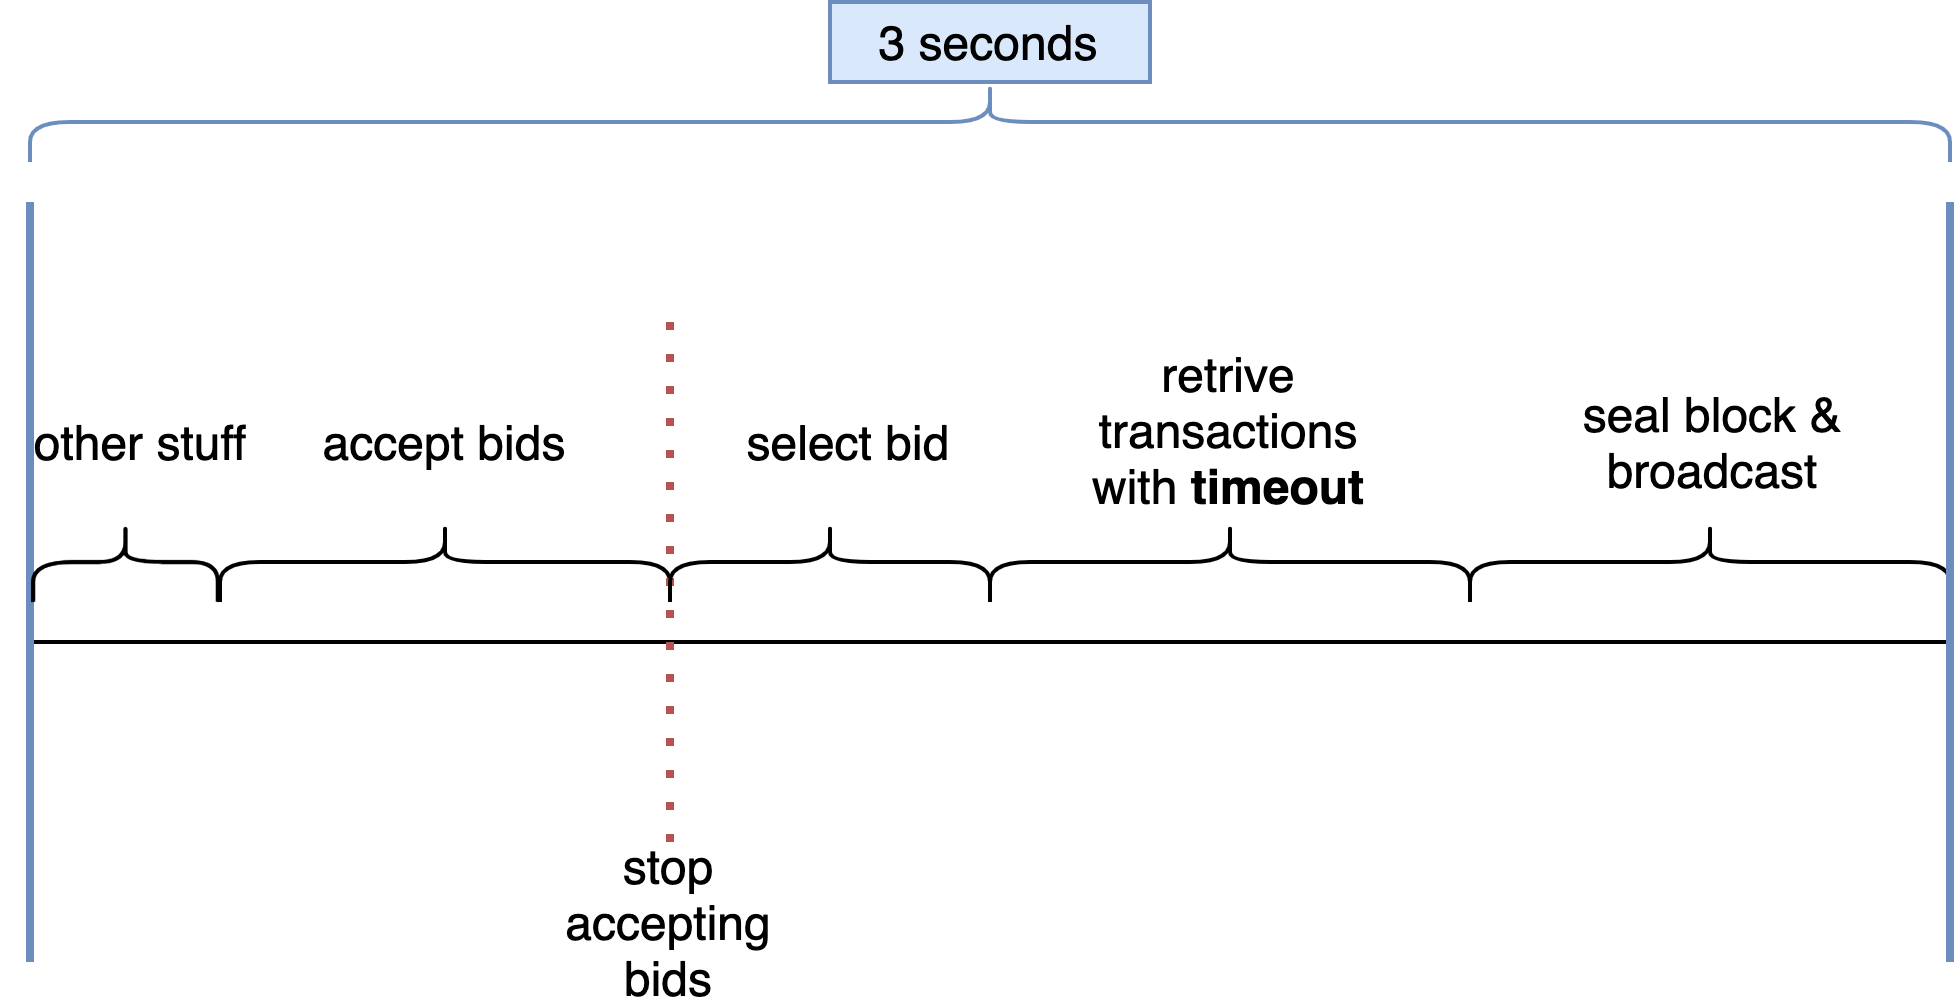
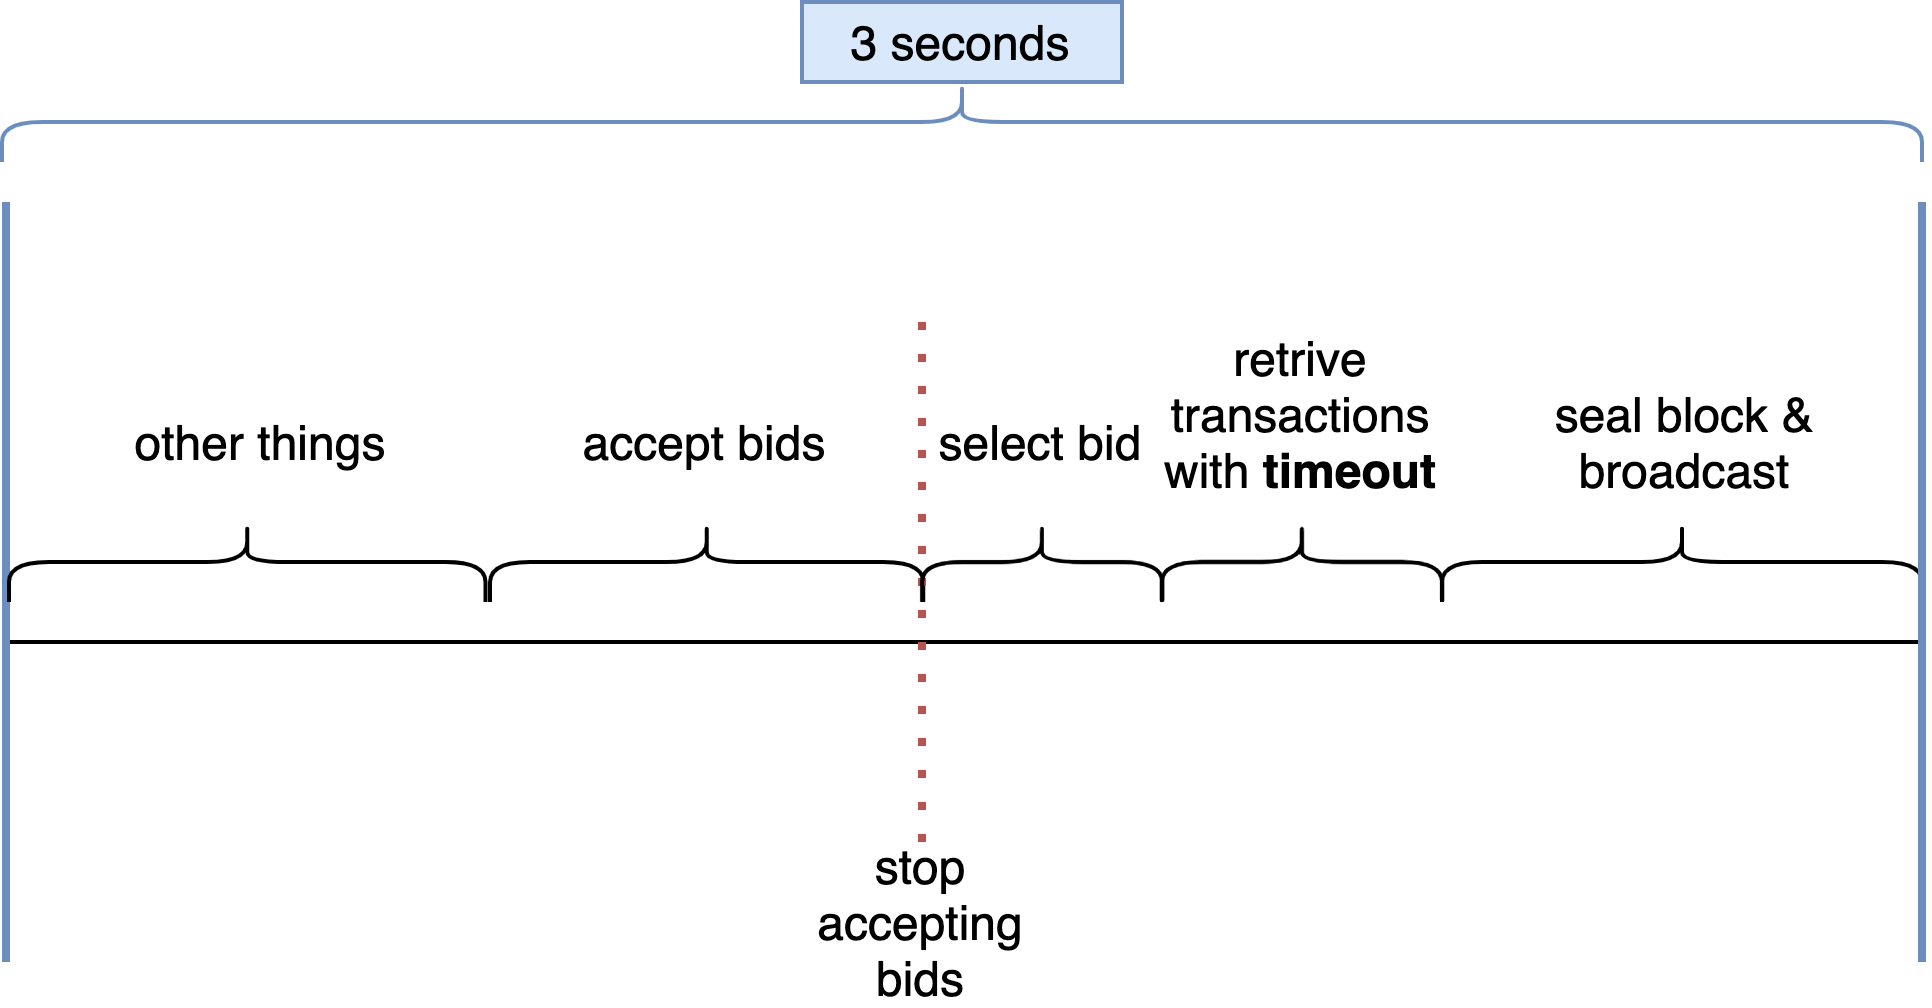
update content to add proxy

diff --git a/BEPs/BEP322.md b/BEPs/BEP322.md
@@ -35,7 +35,6 @@ The [Ethereum Builder API
 Specification](https://github.com/ethereum/builder-specs) has been supported by almost all the mainstream
 Ethereum consensus clients. Nowadays, the inclusion rate of blocks from builders
 is [about 90%](https://dune.com/ChainsightAnalytics/mev-after-ethereum-merge) (based on the statistics of October 2023).
-
 However, on BNB Smart Chain, there is no such specification yet. By
 introducing such a specification, it will resolve some problems as well
 as bring new benefits for the ecosystem.
@@ -94,8 +93,8 @@ A setup phase is needed before builders submit transactions to validators:
 
 To let builders know the smart contract address, a validator can put the information into BSC, i.e., adding the address
 into `Details` field when [creating/editing a validator](https://docs.bnbchain.org/docs/validator/create-val).
-Meanwhile, the registration interfaces are not included in this specification. However, [an example](#4-references)
-is presented to demonstrate this.
+Meanwhile, the registration APIs are not included in this specification.
+However, [an example](#4-references) is presented to demonstrate this.
 
 ![workflow](./assets/bep-322/workflow_setup.png)
 
@@ -117,18 +116,23 @@ After setup, during each block production interval, the overall workflow for pro
 7) the proposer will notify the builder if something is wrong (e.g., timeout to retrieve transitions from the builder,
    or the proposed block is invalid).
 
-8) the proposer will append a transaction to record builder fee to its builder smart contract. This step is optional.
-
-9) the proposer will seal a block using the transactions from the winning builder. If there is no profitable bid
-   compared to local or the transactions do not return in time, the proposer can still seal a block using local
-   transactions.
+8) the proposer will seal a block using the transactions from the winning builder.
+   If there is no profitable bid compared to local or the transactions do not return in time,
+   the proposer can still seal a block using local transactions.
 
 ![workflow](./assets/bep-322/workflow_2round.png)
 
+Meanwhile, a validator can run a proxy in front of it.
+The proxy will has its own wallet, which should be different from consensus wallet,
+and append a transfer transaction to send builder fee.
+The proxy can also filter bids and only forward the more profitable ones to a validator.
+
+![workflow](./assets/bep-322/workflow_2round_proxy.png)
+
 In BSC, the time for producing a block is only 3 seconds. To reduce the latency, the following option is also supported
 in this specification. For step 1, a builder can also submit a bid with transactions, then at step 4 a proposer
-does not need to ask for transactions and can send the receipt in an asynchronous way or
-even do not send it.
+does not need to ask for transactions, and can send the receipt in an asynchronous way or even do not send it.
+This option can also use a proxy for payment.
 
 ![workflow](./assets/bep-322/workflow_1round.png)
 
@@ -154,8 +158,8 @@ Builder Specification here for the readers who are familiar with it.
   transfer (for fee to validators). In BSC, the coinbase reward will
   be transferred to the system contract for later distribution to
   all delegators. A different way is proposed in this proposal; a
-  validator needs to append a transaction to record builder fee to
-  its builder smart contract. It will be further discussed in the later section.
+  validator can run a proxy to append transfer transaction for payment.
+  It will be further discussed in the later section.
 
 #### 3.2.2 Edge Cases
 
@@ -171,11 +175,9 @@ validators, there could be some special cases.
   the validator should 1) notify the builder using api calls, 2)
   refuse the builder's bids for a while or even forever.
 
-- If a builder finds that its transactions are stolen by the
-  validator, the builder 1) can still get its builder fee for it
-  already gets the validator's signature for payment, 2) refuses to
-  send bids to the validator, 3) discloses the steal to public
-  channels for social influences if necessary.
+- If a builder finds that its transactions are stolen by a
+  validator, the builder should 1) refuse to send bids to the validator, 2)
+  disclose the steal to public channels for social influences if necessary.
 
 #### 3.2.3 Implementation Considerations
 
@@ -189,9 +191,10 @@ Secondly, a validator can choose to run a node with or without support for build
 The implementation should support a validator to turn on/off the feature
 based on its choice.
 
-Thirdly, for a validator it needs to interact with many builders at the same time.
-To protect validators, a proxy layer could be implemented to hide validator’s real
-IP information, against DDoS, and others.
+Thirdly, as mentioned earlier, a proxy can be used for payment by appending transfer transactions.
+Meanwhile, for a validator it needs to interact with many builders at the same time.
+A proxy can also be implemented to protect validators, e.g., hiding validator’s real
+IP information, protecting against DDoS, and others.
 
 ![proxy_topology](./assets/bep-322/workflow_topology.png)
 
@@ -212,22 +215,14 @@ be considered.
 - Users can insert a transfer transaction into his/her bundles to pay
   the builder.
 
-For the payment between builders and validators, when a validator accepts
-a bid, it needs to append one accounting transaction to record the builder fee.
-To support this transaction, the following should be satisfied:
+For the payment between builders and validators:
 
-* the gas price of the transaction should be zero. Then a validator does not need to pay any gas for it.
+- A validator can run a proxy and append transfer transactions to pay builders.
+  If a validator does not append the transfer transaction, a builder can still
+  use the receipt (with validator’s signature) to ask for settlement using other approaches.
 
-* the smart contract call can only be made by coinbase address.
-
-* the transaction should be reverted if there is any reorg.
-
-After accounting, a builder can claim its income from the contract without any interaction with the validator.
-
-If a validator does not append the accounting transaction, a builder can still use the receipt (with validator’s
-signature)
-to ask for settlement using other approaches. If a validator does not pay a builder on purpose (i.e., misbehavior),
-then the builder can expose evidence about the misbehavior.
+- A validator and a builder can negotiate other off-chain on-chain approaches which are out of scope of the
+  specification.
 
 Furthermore, let's also discuss what will happen if a builder or a
 validator misbehaves.
@@ -280,8 +275,8 @@ for payment settlement.
 {
   "message": {
     "block": "height of the block",
-    "timestamp": "timestamp", 
-    "transaction_merkle_root": "merkle root of transactions",
+    "parent_hash": "the hash of parent block",
+    "timestamp": "timestamp",
     "gas_value": "gas value for this block",
     "builder_fee_value": "the fee that builder would like to give",
     "builder_address": "builder address",
@@ -305,11 +300,10 @@ for payment settlement.
     "timestamp": "timestamp",
     "bid":{
       "block": "height of the block",
+      "parent_hash": "the hash of parent block",
       "builder_address": "builder address",
       "gas_value": "gas value for this block",
-      "builder_fee_value": "the fee that builder would like to give",
-      "transaction_merkle_root": "merkle root of transactions",
-      "transaction_count": "total count of transactions"
+      "builder_fee_value": "the fee that builder would like to give"
     },
     "transactions": [
       {},
@@ -475,12 +469,11 @@ find the most profitable bid.
 {
   "message": {
       "block": "height of the block",
+      "parent_hash": "the hash of parent block",
       "timestamp": "timestamp", 
       "builder_address": "builder address",
       "gas_value": "gas value for this block",
-      "builder_fee_value": "the fee that builder would like to get",
-      "transaction_merkle_root": "merkle root of transactions",
-      "transaction_count": "total count of transactions"
+      "builder_fee_value": "the fee that builder would like to get"
   },
   "signature": "signature of the message",
   "transactions": [ //optional
@@ -516,22 +509,6 @@ HTTP status code is 200
 </td>
 </tr>
 </table>
-
-##### 3.4.2.2 Record Builder Fee
-
-After accepting a bid, a validator needs to append one accounting transaction to
-book-keep builder fee to its builder smart contract.
-
-```solidity
-// for a validator to record builder fee
-    function bookkeep(uint256 blockHeight, address builderAddress, uint256 fee) external;
-```
-
-For `bookkeep` transaction,
-
-* it can be only executed by coinbase address.
-* its gas price should be zero.
-* it will be reverted when there is blockchain reorg.
 
 ## 4. References
 
